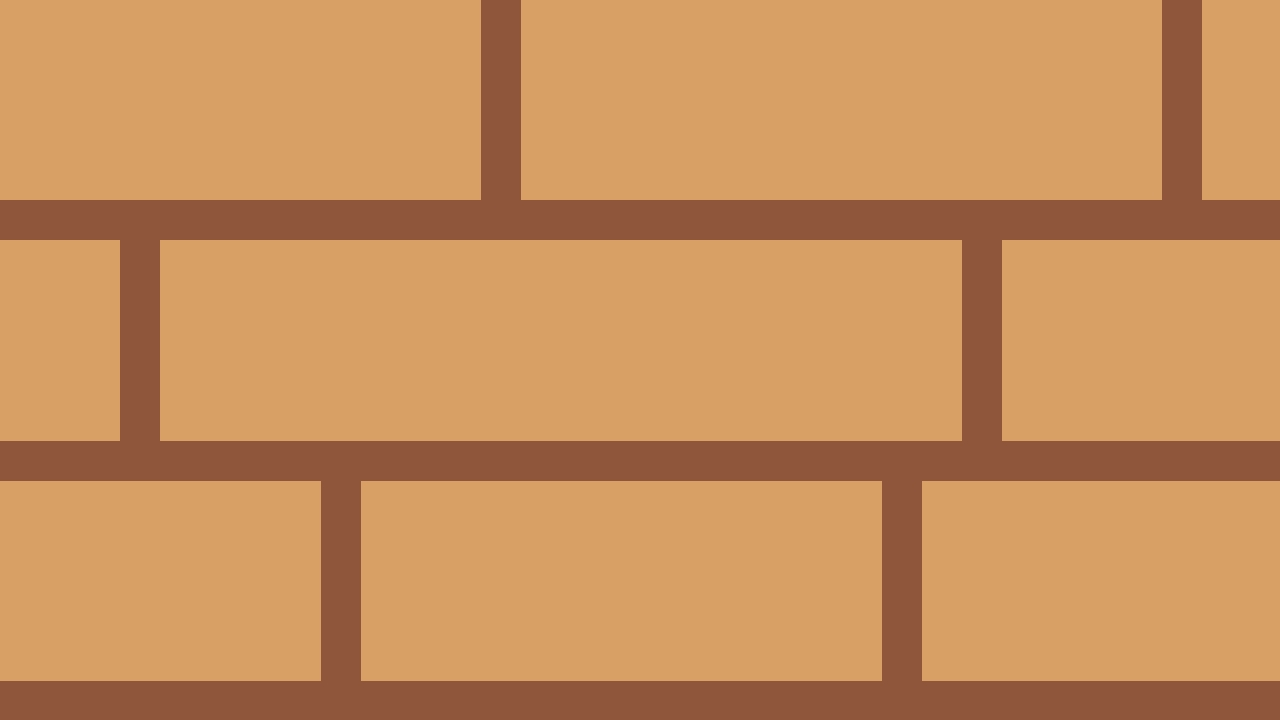
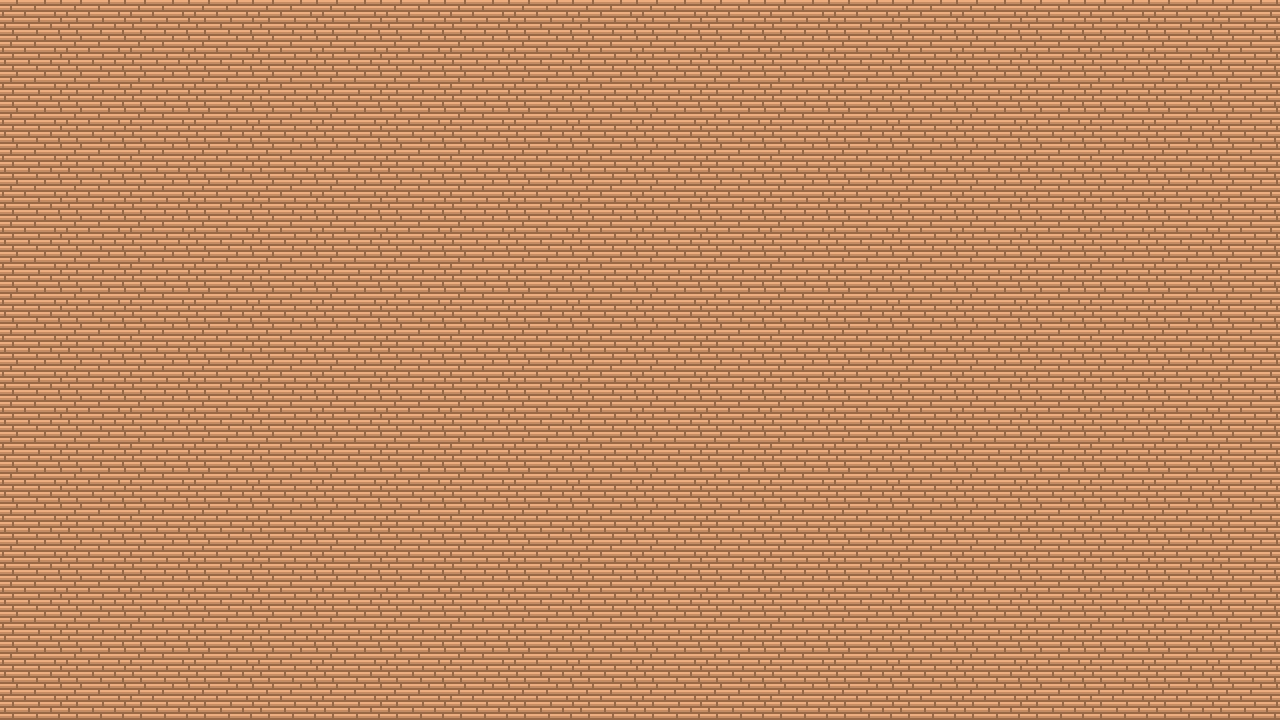
'animations' added, improved background

diff --git a/game.js b/game.js
@@ -1,9 +1,12 @@
 import { EnemyGroup } from "./src/gameobjs/enemy.js";
+import { Entity } from "./src/gameobjs/Entity.js";
 import { Player } from "./src/gameobjs/player.js";
 
 
-export class Game extends Phaser.Scene {
-    constructor() {
+export class Game extends Phaser.Scene 
+{
+    constructor() 
+    {
         super({ key: 'game' });
     }
 
@@ -16,11 +19,26 @@ export class Game extends Phaser.Scene {
         this.load.image('bulletTexture_b', 'assets/bulletTextureb.png');
         this.load.image('sample_p', 'assets/samplePlayer.png');
         this.load.image('bg', 'assets/sampleBackground.jpg')
+        this.load.image('wall', 'assets/wallsample.png');
     }
 
     create()
     {
+       
+
+        this.minutes;
+
+        this.seconds;
+
         this.add.image(1280/2,720/2,'bg');
+
+        //wall
+        this.wall = new Entity(this, 1280/2, 94, 'wall', null,null);
+        this.wall.setDepth(0);
+        this.wall.setCollideWorldBounds(false);
+        this.wall.setImmovable(true);
+        this.wall.setOffset(0,-94);
+        
 
         this.input.keyboard.on('keydown-R', () => {
             this.restartScene();
@@ -45,7 +63,7 @@ export class Game extends Phaser.Scene {
 
         this.spawnEnemies(); 
 
-        this.addOverlaps();
+        this.addCollisions();
               
         this.startTime = this.time.now; // Current time when the game starts
         this.elapsedTime = 0; // Total elapsed time
@@ -59,7 +77,10 @@ export class Game extends Phaser.Scene {
     
         if (this.player.health <= 0)
         {
+            this.timeText.setText(`TIME SURVIVED: ${this.minutes}:${this.seconds < 10 ? '0' : ''}${this.seconds}`);
+
             this.restartText.setText('You died! \n Press R to Restart');
+            
             return;
         } 
 
@@ -72,15 +93,20 @@ export class Game extends Phaser.Scene {
         
 
         this.player.aim();
-        this.player.move();    
+        this.player.move();
+
+        const playerX = this.player.x;
+        const playerY = this.player.y;
+
+        this.posText.setText(`Position: ${playerX.toFixed(2)}, ${playerY.toFixed(2)}`);
         
         for(var i = 0; i < this.totalEnemies; i++)
         {
-           this.enemygrp.handleEnemyAttacks(this.player.body);
+            this.enemygrp.handleEnemyAttacks(this.player.body);
         }
     
         
-        this.killcountText.setText('killed count: ' + this.killedCount);
+        this.killcountText.setText('Enemies killed: ' + this.killedCount);
 
         this.resetHitFlags();
        
@@ -112,15 +138,15 @@ export class Game extends Phaser.Scene {
                 let rX, rY;
                 // Ensure random position doesn't conflict with player position or existing enemies
                 do {
-                    rX = this.getRandomInt(20, 1280);
-                    rY = this.getRandomInt(20, 720);
+                    rX = this.getRandomInt(20, 1260);
+                    rY = this.getRandomInt(200, 700);
                 } while (this.isPositionOccupied(rX, rY));
 
                 this.enemygrp.spawnEnemy(rX, rY, this.wave);
                 this.spawnIndex++;
 
                 // Call the next enemy spawn after a short delay
-                this.time.delayedCall(1250, spawnEnemy, [], this); // Adjust the delay as needed (e.g., 500 ms)
+                this.time.delayedCall(1250, spawnEnemy, [], this);
             } 
 
         };
@@ -157,20 +183,14 @@ export class Game extends Phaser.Scene {
 
     getTime() 
     {
-        // If the player is killed, we don't update the timer
-        if (this.player.health <= 0)  
-        {
-            this.timeText.setText(`TIME SURVIVED: ${minutes}:${seconds < 10 ? '0' : ''}${seconds}`);
-            return;
-        }
-    
+      
         this.elapsedTime = Math.floor((this.time.now - this.startTime) / 1000);
     
-        const minutes = Math.floor(this.elapsedTime / 60);
-        const seconds = this.elapsedTime % 60;
+        this.minutes = Math.floor(this.elapsedTime / 60);
+        this.seconds = this.elapsedTime % 60;
     
         // Update the time display
-        this.timeText.setText(`TIME: ${minutes}:${seconds < 10 ? '0' : ''}${seconds}`);
+        this.timeText.setText(`TIME: ${this.minutes}:${this.seconds < 10 ? '0' : ''}${this.seconds}`);
     }
     
 
@@ -188,7 +208,7 @@ export class Game extends Phaser.Scene {
         });
         this.fpsText.setDepth(5);
 
-        this.killcountText = this.add.text(10, 80, 'kill count: ' , {
+        this.killcountText = this.add.text(10, 80, 'Enemies Killed: ' , {
             font: '22px Arial',
             fill: '#ffffff'
         });
@@ -211,10 +231,20 @@ export class Game extends Phaser.Scene {
             fill: '#ffffff'
         });
         this.timeText.setDepth(5);
+
+        this.posText = this.add.text(10, 140, 'Pos: ', {
+            font: '22px Arial',
+            fill: '#ffffff'
+        });
+        this.timeText.setDepth(5);
     }
 
-    addOverlaps()
+    addCollisions()
     {
+
+        this.physics.add.collider(this.player, this.wall);
+
+
         this.physics.add.overlap(this.enemygrp, this.player.getBulletGroup(), (enemy, bullet) => {
             if (enemy.active) 
             {

diff --git a/src/gameobjs/player.js b/src/gameobjs/player.js
@@ -28,6 +28,8 @@ export class Player extends Entity
         const mouseX = this.scene.input.activePointer.x;
         const mouseY = this.scene.input.activePointer.y;
 
+        const body = this.body;
+
         this.graphics.clear();
         
         this.graphics.lineStyle(2, 0xff0000, 1); 
@@ -37,6 +39,25 @@ export class Player extends Entity
         this.graphics.fillStyle(0xff0000, 1);
         
         this.graphics.fillCircle(mouseX, mouseY, 2);
+
+        if(mouseX <= body.x)
+        {
+            this.movingRight = false;
+        }
+        else
+        {
+            this.movingRight = true;
+        }
+
+        
+        if(this.movingRight)
+        {
+            this.flipX = true;
+        }
+        else
+        {
+            this.flipX = false;
+        }
         
     }
 
@@ -66,6 +87,7 @@ export class Player extends Entity
             this.bulletGroup.fireBullet(body.x , body.y, body.width, body.height ,dir[0] * bulletSpeed, dir[1] * bulletSpeed);
         });
     }
+    
 
     move()
     {
@@ -102,27 +124,29 @@ export class Player extends Entity
             directionY /= magnitude;
         }
 
-        if(directionX > 0)
-        {
-            this.movingRight = true;
-        }
-        else if (directionX < 0)
-        {
-            this.movingRight = false;
-        }
 
 
-        if(this.movingRight)
-        {
-            this.flipX = true;
-        }
-        else
-        {
-            this.flipX = false;
-        }
+        this.playAinamtion();
 
         body.setVelocityX(directionX * moveSpeed);
         body.setVelocityY(directionY * moveSpeed);
+    }
+
+    playAinamtion()
+    {
+        const body = this.body;
+
+        if (body.velocity.x !== 0 || body.velocity.y !== 0) 
+        {
+            // Use a sine wave for wobbling effect
+            this.rotation += Math.sin(Date.now() / 100) * 0.025; // Adjust the divisor for speed of wobble
+        } 
+        else 
+        {
+            this.rotation = 0; 
+        }
+
+        this.rotation = Math.max(-5, Math.min(5, this.rotation)); 
     }
 
     receiveDamage()

diff --git a/src/gameobjs/Entity.js b/src/gameobjs/Entity.js
@@ -10,8 +10,8 @@ export class Entity extends Phaser.Physics.Arcade.Sprite
         this.setDepth(2);
         this.scene = scene;
 
-
         this.scene.add.existing(this);
+        
         this.scene.physics.world.enable(this);
 
         this.setCollideWorldBounds(true);
